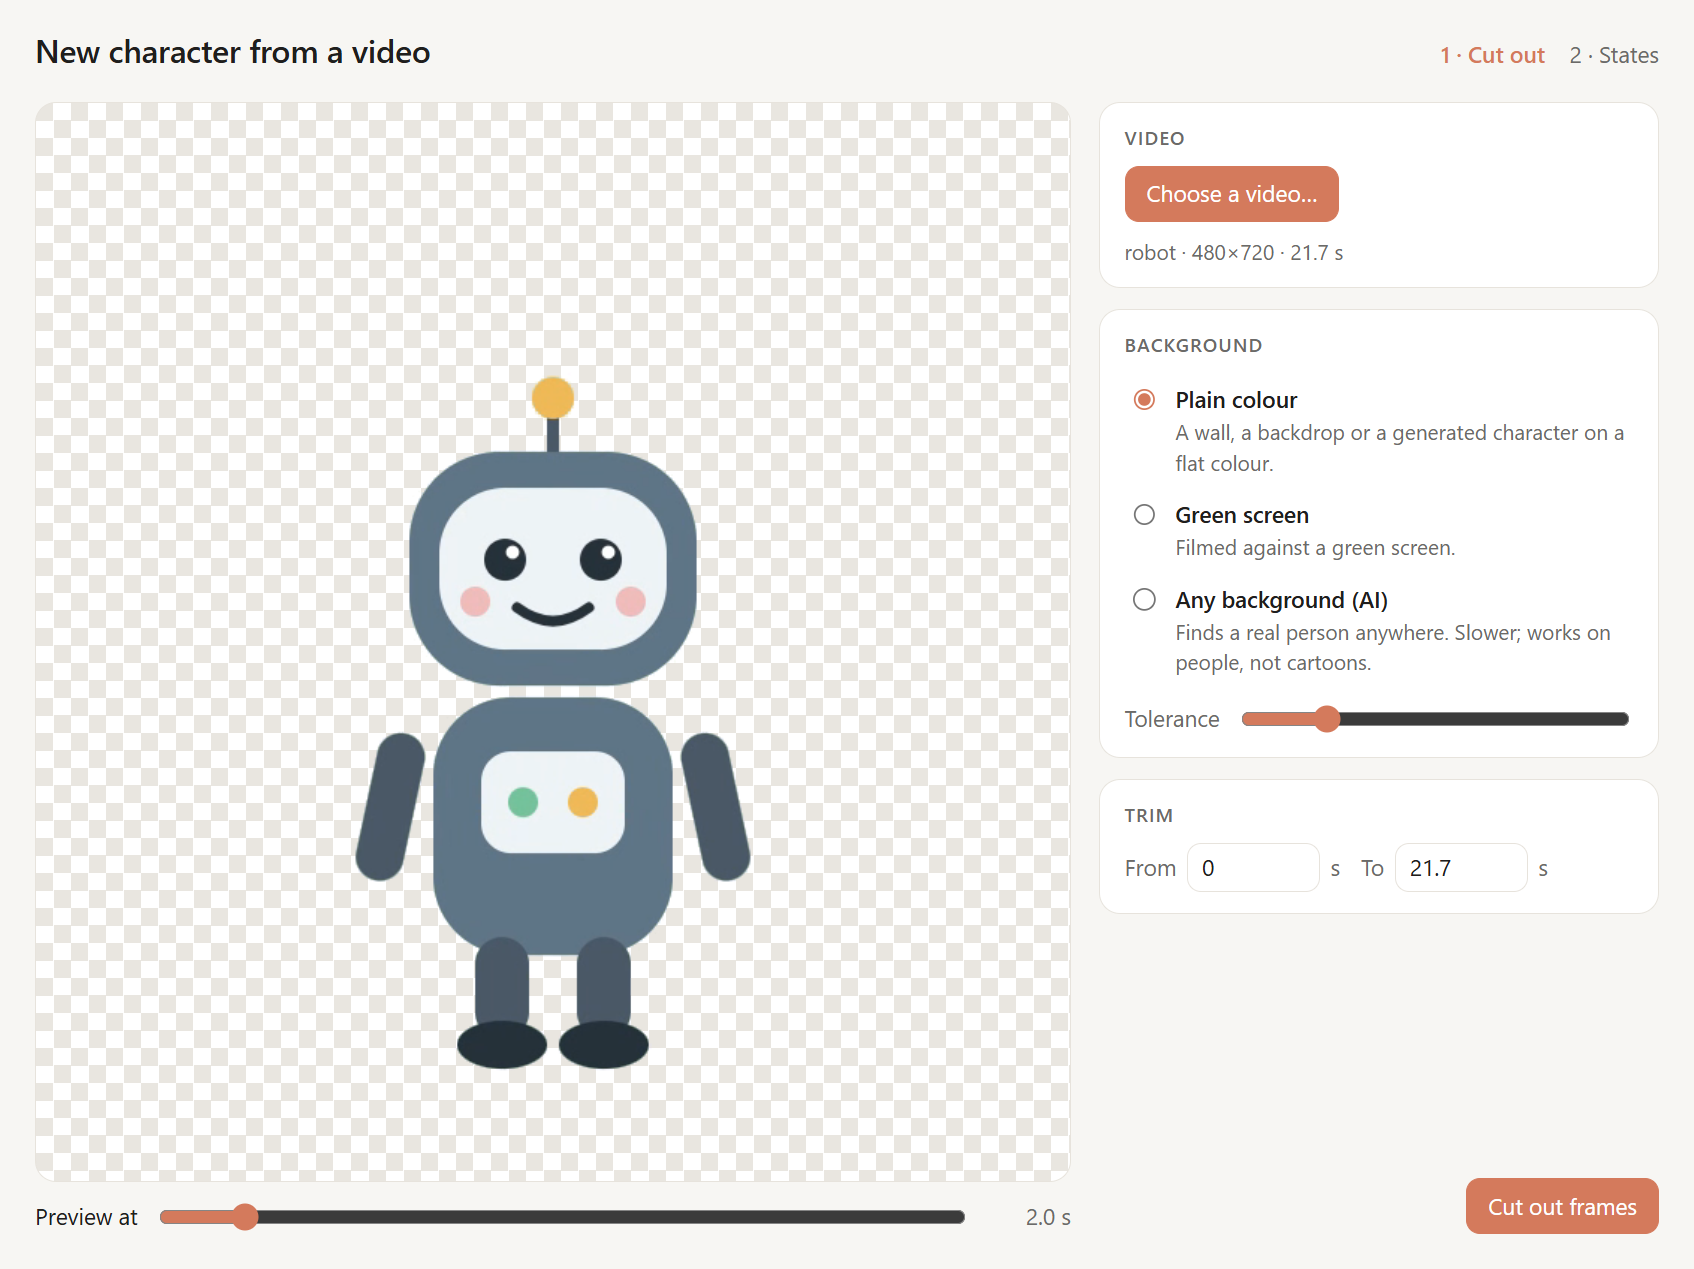
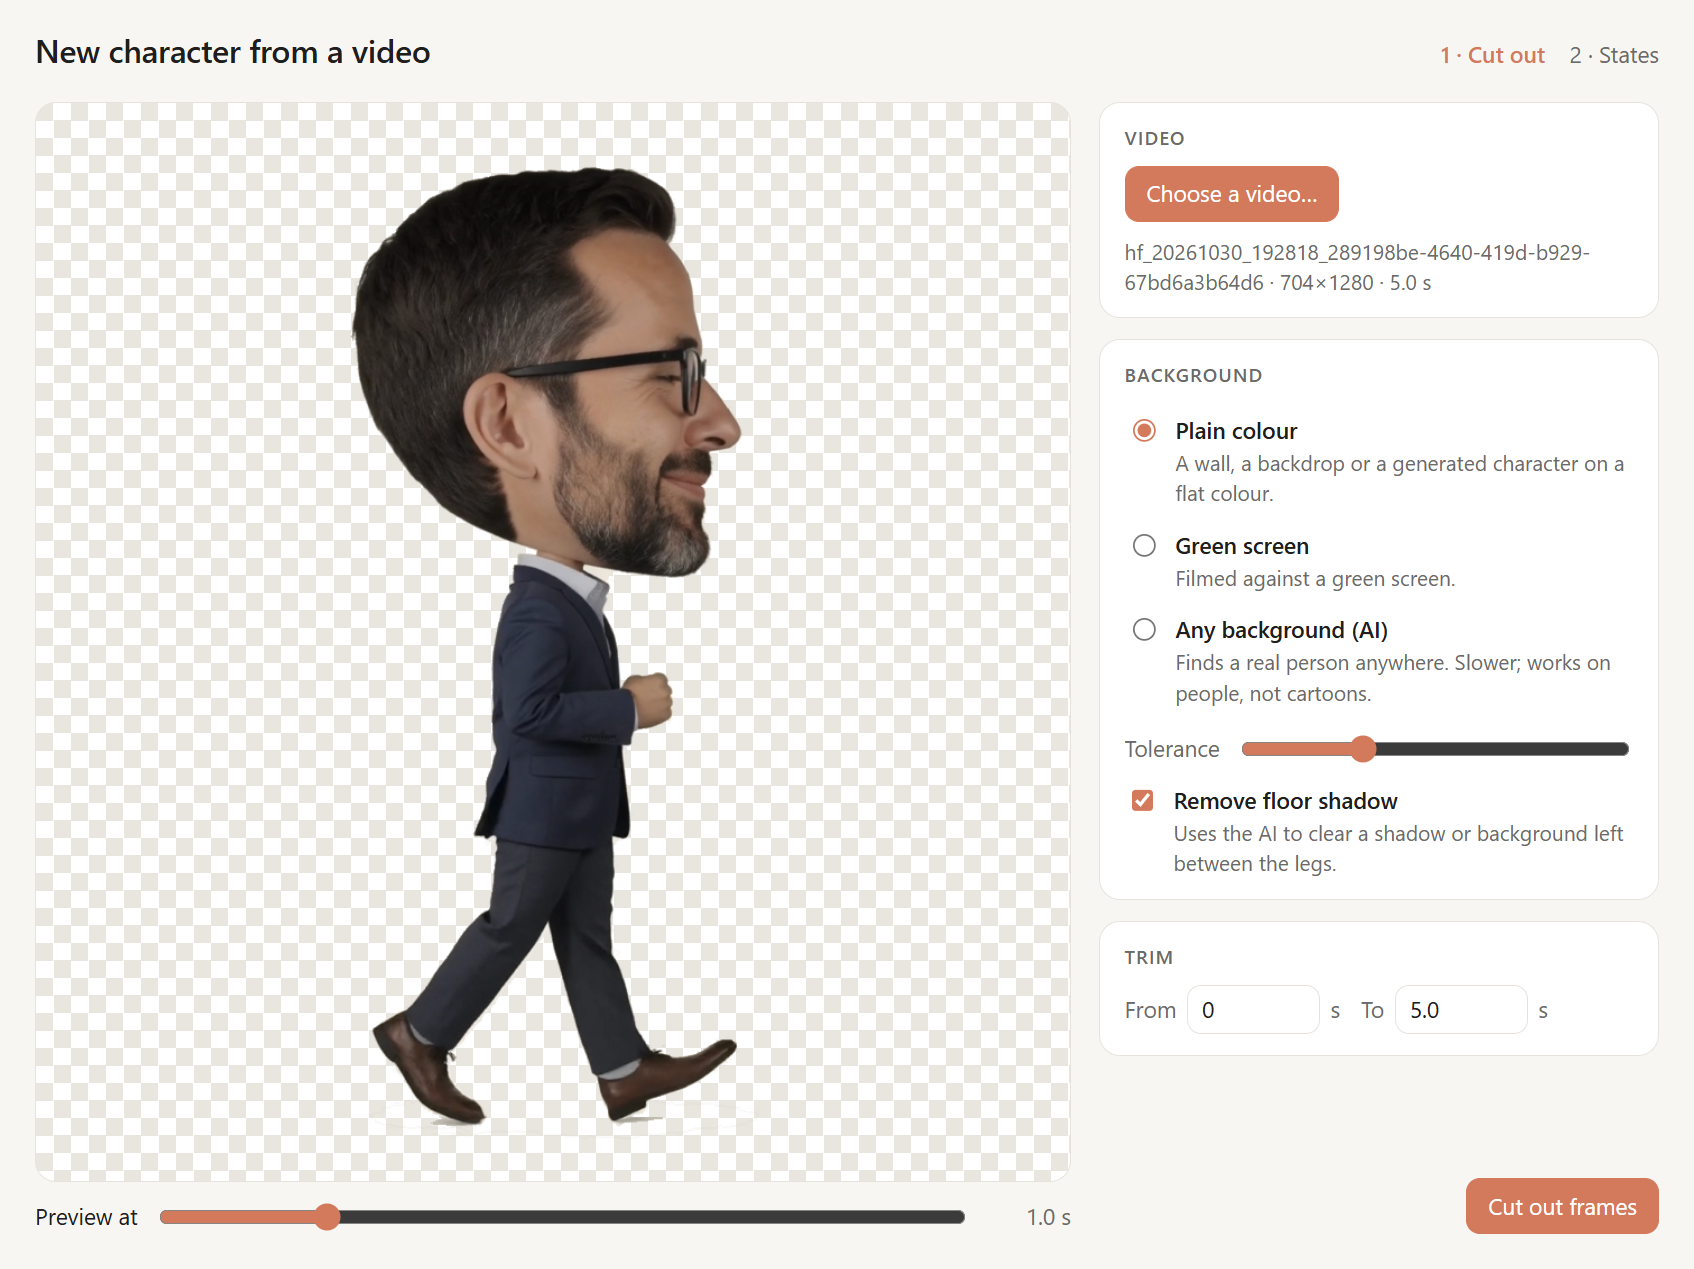
Agent Buddy 0.11.0: a bobblehead default character, floor-shadow removal
- The built-in default character is now an animated bobblehead (frames
  made from an AI video) instead of the placeholder robot; the robot
  stays as the app icon.
- Video wizard: "Remove floor shadow" combines the plain-colour cut with
  the AI person mask to clear shadows and background trapped between
  the legs, keeping crisp edges.
- Screenshot mode hides your own characters in Settings.
- Docs and screenshots updated for the new default.

diff --git a/main.js b/main.js
@@ -17,7 +17,7 @@ const LEGACY_DIR = path.join(os.homedir(), '.claude-pet');
 const TOKEN_FILE = path.join(DATA_DIR, 'token');
 const CONFIG_FILE = path.join(DATA_DIR, 'config.json');
 const CHARACTERS_DIR = path.join(DATA_DIR, 'characters');
-const PLACEHOLDER_DIR = path.join(__dirname, 'assets', 'placeholder');
+const DEFAULT_DIR = path.join(__dirname, 'assets', 'default');
 const ASK_TIMEOUT_MS = 55_000; // hook timeout is 60s; fall back to Claude's own dialog before that
 const WIN_W = 320, WIN_H = 560; // tall enough for a question bubble above a tall character; the empty part is click-through
 
@@ -350,7 +350,7 @@ ipcMain.handle('get-state', () => snapshot());
 // ---------- characters ----------
 // A character is a folder with character.json (see README) plus its image or frames.
 // The active one lives in ~/.agent-buddy/characters/<id>; with none chosen, the
-// built-in placeholder in assets/placeholder is shown.
+// built-in default character in assets/default is shown.
 
 function readCharacter(dir) {
   try {
@@ -368,7 +368,7 @@ function listCharacters() {
 
 function activeCharacterDir() {
   const dir = config.character && path.join(CHARACTERS_DIR, config.character);
-  return dir && readCharacter(dir) ? dir : PLACEHOLDER_DIR;
+  return dir && readCharacter(dir) ? dir : DEFAULT_DIR;
 }
 
 // Character files are served as buddy://character/<file> from the active folder only.
@@ -490,7 +490,7 @@ ipcMain.handle('wizard:save', async (_e, { character, frames }) => {
     fs.mkdirSync(path.join(dir, 'frames'), { recursive: true });
     await Promise.all(frames.map((buf, i) => fs.promises.writeFile(path.join(dir, 'frames', `f${String(i).padStart(3, '0')}.webp`), Buffer.from(buf))));
     character.frames = { ...character.frames, count: frames.length, file: 'frames/f###.webp' };
-  } else if (dir === PLACEHOLDER_DIR) return false;
+  } else if (dir === DEFAULT_DIR) return false;
   const prev = readCharacter(dir) || {};
   fs.writeFileSync(path.join(dir, 'character.json'), JSON.stringify({ ...prev, ...character, kind: 'frames' }, null, 2));
   useCharacter(id);
@@ -683,12 +683,12 @@ function characterMenu() {
   const active = activeCharacterDir();
   const pick = (id, label, dir) => ({ label, type: 'radio', checked: active === dir, click: () => useCharacter(id) });
   return [
-    pick(null, 'Default buddy', PLACEHOLDER_DIR),
+    pick(null, 'Default buddy', DEFAULT_DIR),
     ...listCharacters().map((c) => pick(c.id, c.info.name || c.id, path.join(CHARACTERS_DIR, c.id))),
     { type: 'separator' },
     { label: 'New character from a video…', click: () => openWizard('new') },
     { label: 'New character from a picture…', click: () => newCharacterFromImage() },
-    { label: 'Edit clips…', enabled: readCharacter(active)?.kind === 'frames' && active !== PLACEHOLDER_DIR, click: () => openWizard('edit') },
+    { label: 'Edit clips…', enabled: readCharacter(active)?.kind === 'frames' && active !== DEFAULT_DIR, click: () => openWizard('edit') },
     { label: 'Import a character folder…', click: () => importCharacter() },
     { label: 'Open characters folder', click: () => shell.openPath(CHARACTERS_DIR) },
   ];
@@ -728,8 +728,8 @@ function rebuildTray() {
 function settingsState() {
   return {
     settings: settings(),
-    characters: [{ id: null, name: 'Default buddy' }, ...listCharacters().map((c) => ({ id: c.id, name: c.info.name || c.id, kind: c.info.kind }))],
-    character: activeCharacterDir() === PLACEHOLDER_DIR ? null : config.character,
+    characters: [{ id: null, name: 'Default buddy' }, ...(devDemoOnly ? [] : listCharacters()).map((c) => ({ id: c.id, name: c.info.name || c.id, kind: c.info.kind }))],
+    character: activeCharacterDir() === DEFAULT_DIR ? null : config.character,
     shown: !config.hidden,
     startWithWindows: startsWithWindows(),
     hooks: hooks.status(token),

diff --git a/renderer/video-wizard.js b/renderer/video-wizard.js
@@ -99,7 +99,12 @@ async function cutFrame(t) {
   wx.clearRect(0, 0, W, H);
   wx.drawImage(video, 0, 0, W, H);
   const im = wx.getImageData(0, 0, W, H), tol = Number($('#tolerance').value), m = bgMode();
-  if (m === 'colour') keyColour(im, bg || (bg = cornerBackground(im)), tol);
+  if (m === 'colour') {
+    if (!bg) bg = cornerBackground(im);
+    const mask = $('#shadow').checked ? await personMask(work) : null; // before keying: the AI sees the original
+    keyColour(im, bg, tol);
+    if (mask) clearShadows(im, mask, bg);
+  }
   else if (m === 'green') keyGreen(im, tol);
   else applyMask(im, await personMask(work));
   wx.putImageData(im, 0, 0);
@@ -135,8 +140,15 @@ async function cutBackground() {
   bg = cornerBackground(wx.getImageData(0, 0, W, H));
 }
 
-document.querySelectorAll('input[name=mode]').forEach((r) => { r.onchange = () => { $('#tolerance-field').hidden = bgMode() === 'ai'; showCutError(''); previewCut(); }; });
+document.querySelectorAll('input[name=mode]').forEach((r) => {
+  r.onchange = () => {
+    $('#tolerance-field').hidden = bgMode() === 'ai';
+    $('#shadow-field').hidden = bgMode() !== 'colour';
+    showCutError(''); previewCut();
+  };
+});
 $('#tolerance').oninput = previewCut;
+$('#shadow').onchange = previewCut;
 $('#scrub').oninput = previewCut;
 $('#trim-start').onchange = () => { bg = null; previewCut(); };
 

diff --git a/renderer/extract-core.js b/renderer/extract-core.js
@@ -86,6 +86,20 @@ function applyMask(img, mask, edge = 0.25) {
   return img;
 }
 
+// Plain colour plus the person mask: a floor shadow, or background trapped between the legs, is close to
+// the background colour but outside the person, so it goes; the figure keeps the plain-colour cut's crisp
+// edges, and dark details the mask misses (shoes, fingers) stay because they are far from the background.
+function clearShadows(img, mask, bg, maxDiff = 130) {
+  const d = img.data;
+  for (let p = 0; p < mask.length; p++) {
+    const i = p * 4;
+    if (mask[p] >= 0.35 || !d[i + 3]) continue;
+    const diff = Math.abs(d[i] - bg[0]) + Math.abs(d[i + 1] - bg[1]) + Math.abs(d[i + 2] - bg[2]);
+    if (diff < maxDiff) d[i + 3] = Math.round(d[i + 3] * Math.max(0, (mask[p] - 0.15) / 0.2));
+  }
+  return img;
+}
+
 // Box around the opaque pixels, or null when the frame is empty.
 function alphaBounds(img, threshold = 40) {
   const { data: d, width: W, height: H } = img;

diff --git a/renderer/video-wizard.html b/renderer/video-wizard.html
@@ -30,6 +30,7 @@
         <label class="radio"><input type="radio" name="mode" value="green"><span><b>Green screen</b><small>Filmed against a green screen.</small></span></label>
         <label class="radio"><input type="radio" name="mode" value="ai"><span><b>Any background (AI)</b><small>Finds a real person anywhere. Slower; works on people, not cartoons.</small></span></label>
         <label class="field" id="tolerance-field"><span>Tolerance</span><input type="range" id="tolerance" min="0" max="1" step="0.01" value="0.2"></label>
+        <label class="check" id="shadow-field"><input type="checkbox" id="shadow"><span><b>Remove floor shadow</b><small>Uses the AI to clear a shadow or background left between the legs.</small></span></label>
       </section>
       <section>
         <h2>Trim</h2>

diff --git a/renderer/video-wizard.css b/renderer/video-wizard.css
@@ -61,6 +61,10 @@ aside section p { margin: 8px 0 0; font-size: 12px; }
 .field span { color: var(--muted); white-space: nowrap; }
 .field input[type=range] { flex: 1; }
 #tolerance-field { margin-top: 8px; }
+.check { display: flex; gap: 8px; align-items: flex-start; margin-top: 10px; cursor: pointer; }
+.check input { margin-top: 3px; }
+.check b { display: block; font-weight: 600; }
+.check small { display: block; color: var(--muted); font-size: 12px; }
 .trim { display: flex; gap: 12px; }
 .trim label { display: flex; align-items: center; gap: 6px; color: var(--muted); }
 .trim input { width: 76px; padding: 4px 8px; }

diff --git a/docs/characters.md b/docs/characters.md
@@ -8,6 +8,9 @@ There are two kinds:
 - **Frames**: a sequence of images with a *clip* (a range of frames) for each state. Make one with
   **Character → New character from a video…**, which cuts the frames out of a video and lets you mark the clips.
 
+The built-in **Default buddy**, a bobblehead in a navy suit, is a frames character made the same way from an AI
+video. Its files are in [`assets/default/`](../assets/default) if you want an example.
+
 To share a character, zip its folder. Someone else can unzip it and use **Character → Import a character folder…**.
 
 ## Making a good video
@@ -15,7 +18,8 @@ To share a character, zip its folder. Someone else can unzip it and use **Charac
 **Using an AI video tool?** [video-prompt.md](video-prompt.md) has a ready-made prompt for Gemini (Veo), Seedance
 and similar tools, plus which move maps to which state.
 
-- **One character, filmed whole**, from head to feet, without walking out of the frame.
+- **One character, filmed whole**, from head to feet, without walking out of the frame. AI tools sometimes cut to a
+  different person partway through; leave those parts out of every state's bar (or trim them away).
 - **Do each move one after another**, a few seconds each, roughly in this order:
   standing → thinking → looking something up → walking → waiting → waving → celebrating → a "whoops".
   The wizard's first guess splits the video evenly in that order. You can adjust every range afterwards,
@@ -31,8 +35,10 @@ and similar tools, plus which move maps to which state.
 ## The video wizard
 
 1. **Cut out**: choose the video and a background option. Move *Preview at* to check a few moments, and raise
-   *Tolerance* if bits of background remain (or lower it if parts of the character disappear). Trim to the part
-   you want, then **Cut out frames**.
+   *Tolerance* if bits of background remain (or lower it if parts of the character disappear). If a floor
+   shadow stays, often between the legs, tick **Remove floor shadow**: the AI person finder clears background-coloured
+   areas that aren't part of the character, while the plain-colour cut keeps its crisp edges. Trim to the part you
+   want, then **Cut out frames**.
 2. **States**: each row is a state. Drag a bar to move it, drag its ends to resize it, and click an empty row to
    add a bar there. Click a row to preview it. Choose how each clip plays: *Loop*, *Back and forth* or *Once*.
    On *Running*, tick *walk* to make the character stroll left and right while Claude runs tools.

diff --git a/README.md b/README.md
@@ -56,7 +56,8 @@ it's off, the buddy tells you Claude needs your OK and you answer in Claude.
 
 ## Your character
 
-Agent Buddy ships with a placeholder robot. Make your own from **Character** in the menu or in Settings:
+Agent Buddy ships with **Default buddy**, an animated bobblehead made from an AI video with the
+[prompt below](docs/video-prompt.md). Make your own from **Character** in the menu or in Settings:
 
 ### From a video (recommended)
 
@@ -73,7 +74,7 @@ Agent Buddy ships with a placeholder robot. Make your own from **Character** in 
    - **Plain colour** for a wall, a backdrop or a generated character on a flat colour;
    - **Green screen**;
    - **Any background (AI)**, which finds a real person in an ordinary video using an on-device model.
-3. Check the preview, then **Cut out frames**.
+3. Check the preview (tick **Remove floor shadow** if a shadow is left under the feet), then **Cut out frames**.
 4. On the timeline, drag a bar for each state (idle, thinking, checking, running, waiting, hello, done, error) and
    watch the preview. Only *Idle* is required.
 5. Name it and **Save character**. Use **Edit clips…** any time to re-time it.

diff --git a/docs/video-prompt.md b/docs/video-prompt.md
@@ -38,7 +38,10 @@ Style & Technical Constraints:
 - **Short clips:** many tools make 5–10 second clips. Generate a few (for example states 1–3, 4–6 and 7–9), then join
   them in any video editor, or the Windows Clipchamp app, before opening the result in the wizard.
 - **Background:** in the wizard, keep **Plain colour**. The off-white background cuts out cleanly. If bits of
-  background remain around the edges, raise *Tolerance* a little.
+  background remain around the edges, raise *Tolerance* a little. Tools often add a soft floor shadow despite the
+  prompt; tick **Remove floor shadow** to clear it.
+- **One person only:** some tools cut to a different character partway through. Leave those frames out of every
+  state's bar.
 - **Same person every time:** if a clip drifts from your face or outfit, regenerate it rather than mixing in a
   different-looking one. The buddy switches between clips constantly, so any difference shows.
 

diff --git a/CONTRIBUTING.md b/CONTRIBUTING.md
@@ -40,7 +40,8 @@ screenshots. `AGENT_BUDDY_TEST_VIDEO=<path>` makes the video wizard skip its fil
 | `renderer/settings.*` | The settings window |
 | `renderer/video-wizard.*` | The "New character from a video" wizard |
 | `renderer/extract-core.js` | Background removal (plain colour, green screen, AI mask helpers), shared with `tools/extract.html` |
-| `assets/placeholder/` | The built-in robot |
+| `assets/default/` | The built-in default character (frames + `character.json`) |
+| `assets/placeholder/buddy.svg` | The robot drawn into the app icon (`npm run icon`) |
 | `assets/vision/` | The person-segmentation model the wizard's AI mode uses (MediaPipe selfie segmenter, Apache-2.0) |
 
 The hook flow, events and character format are described in the [README](README.md) and [docs/characters.md](docs/characters.md).
